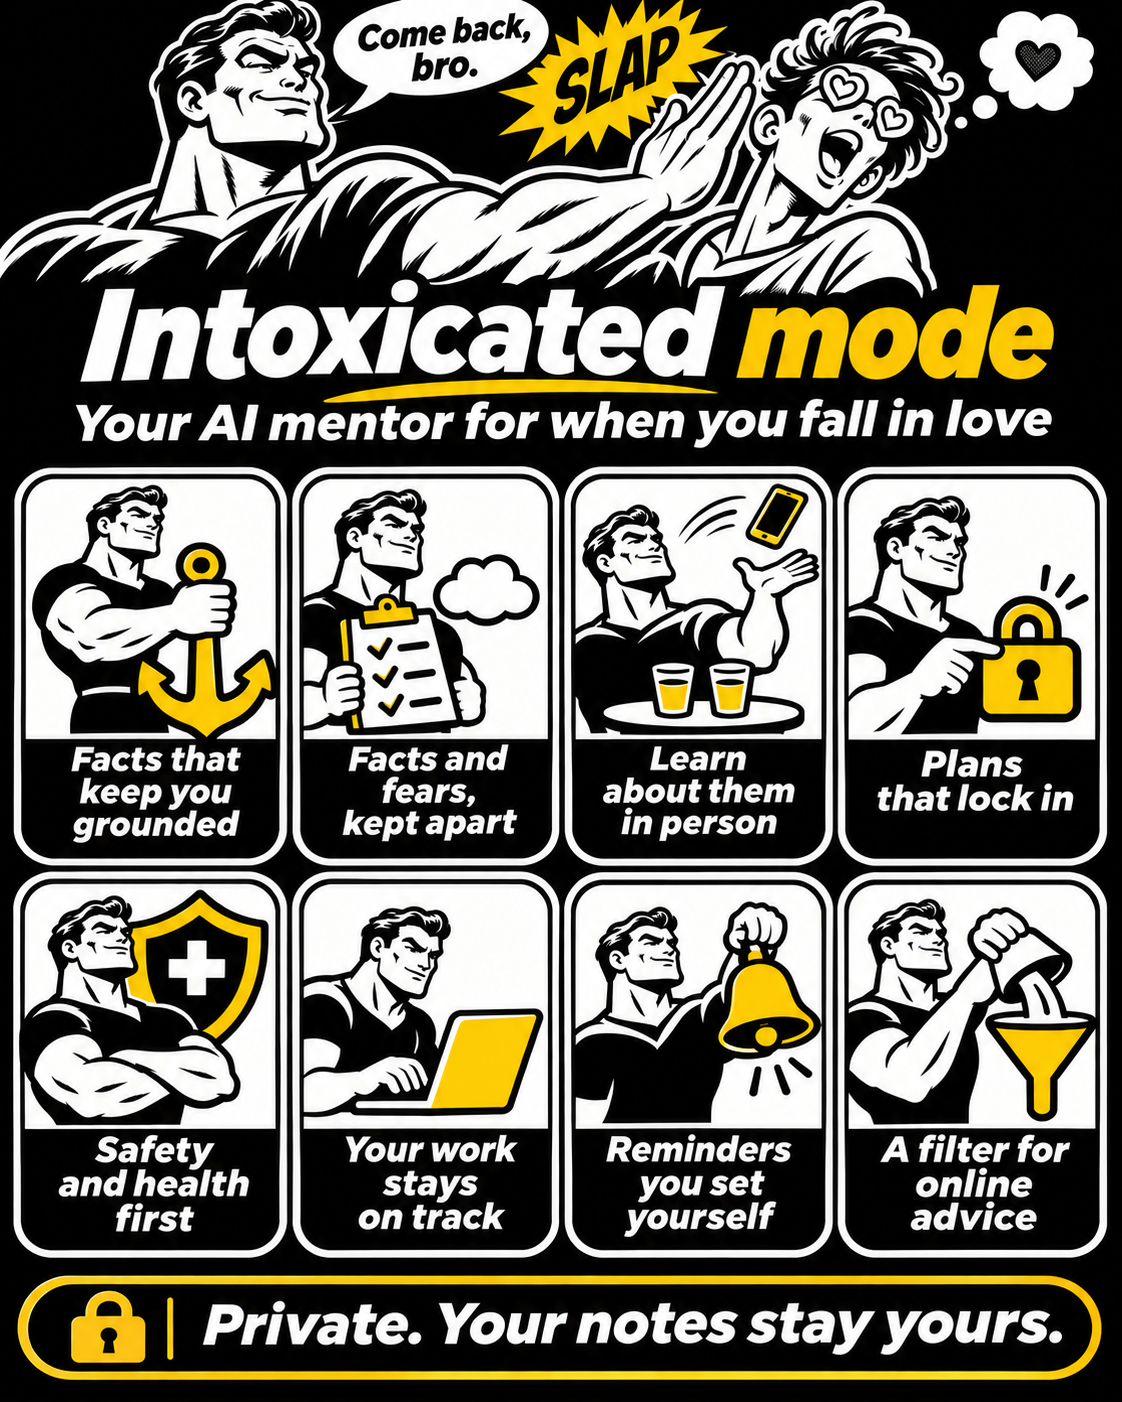
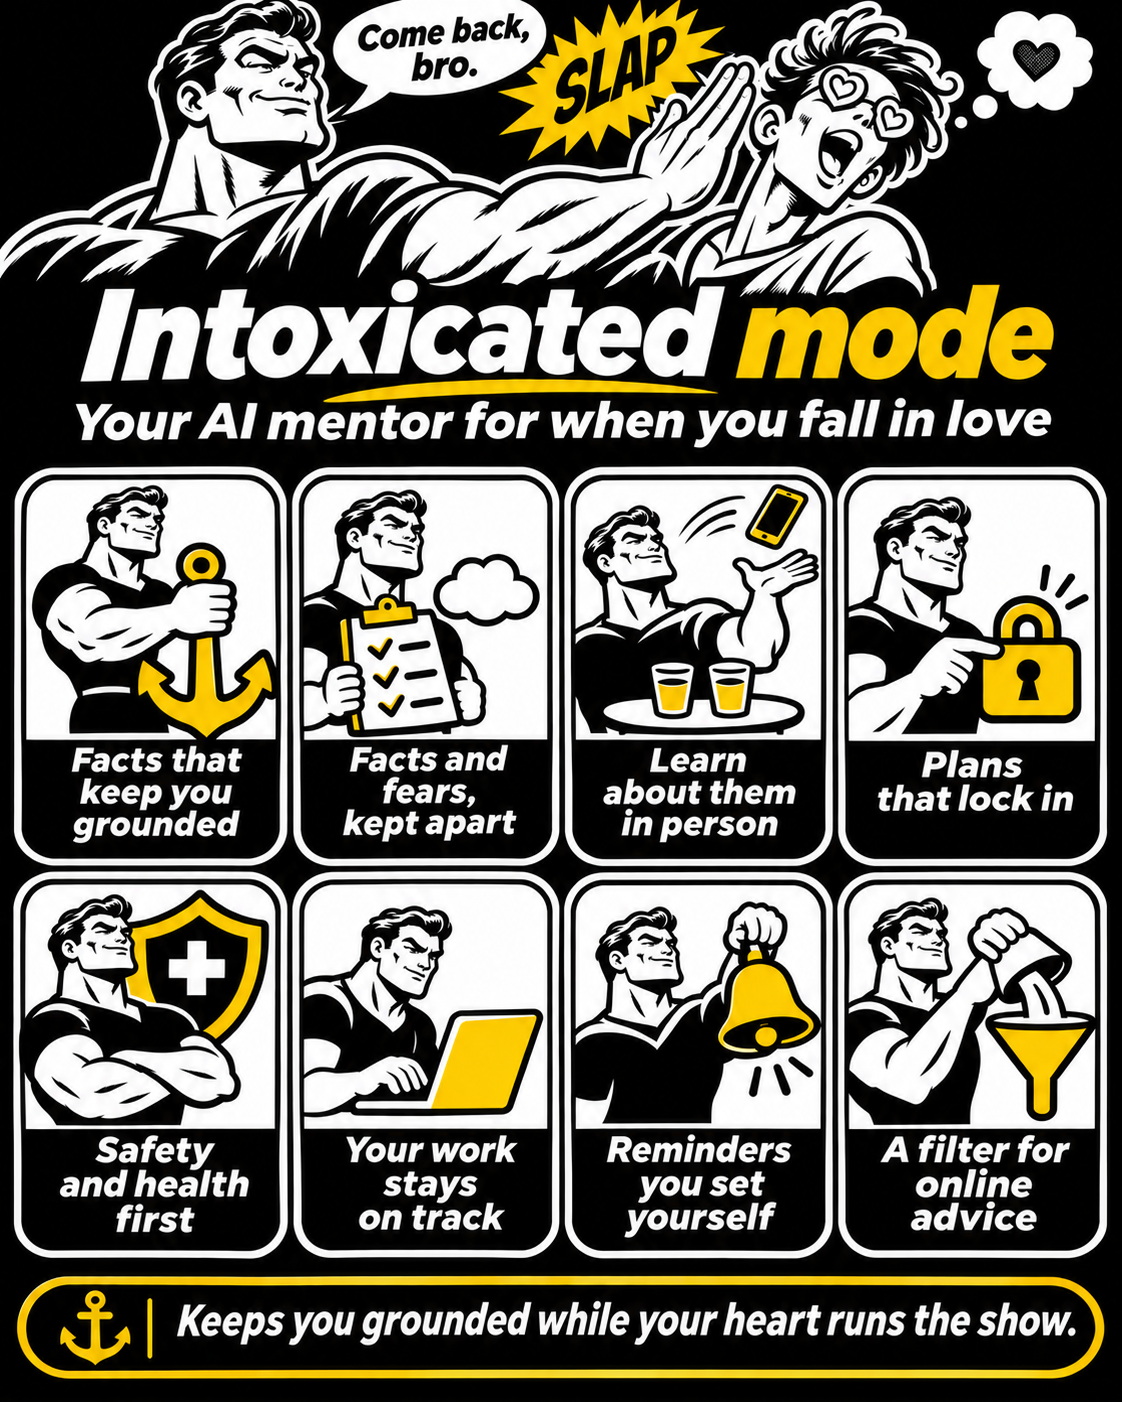
Poster: grounding line instead of privacy claim; honest privacy section

diff --git a/README.md b/README.md
@@ -62,9 +62,9 @@ Paste [chatgpt/instructions.md](chatgpt/instructions.md) into a Project's instru
 3. When you spiral, say so. You will get facts and a plan.
 4. Say "end intoxicated mode" when you are out of the woods.
 
-## Privacy
+## Privacy, honestly
 
-The skill asks the assistant to keep every personal detail in one private place and never in shared notes, wikis or team channels. Nothing in this repository contains anyone's real story.
+The skill asks the assistant to keep personal details out of shared places: team wikis, group channels, shared project notes. It cannot make your chat more private than your AI provider already does, so read their terms and keep names out if you want to. Nothing in this repository contains anyone's real story.
 
 ## Not a substitute
 
